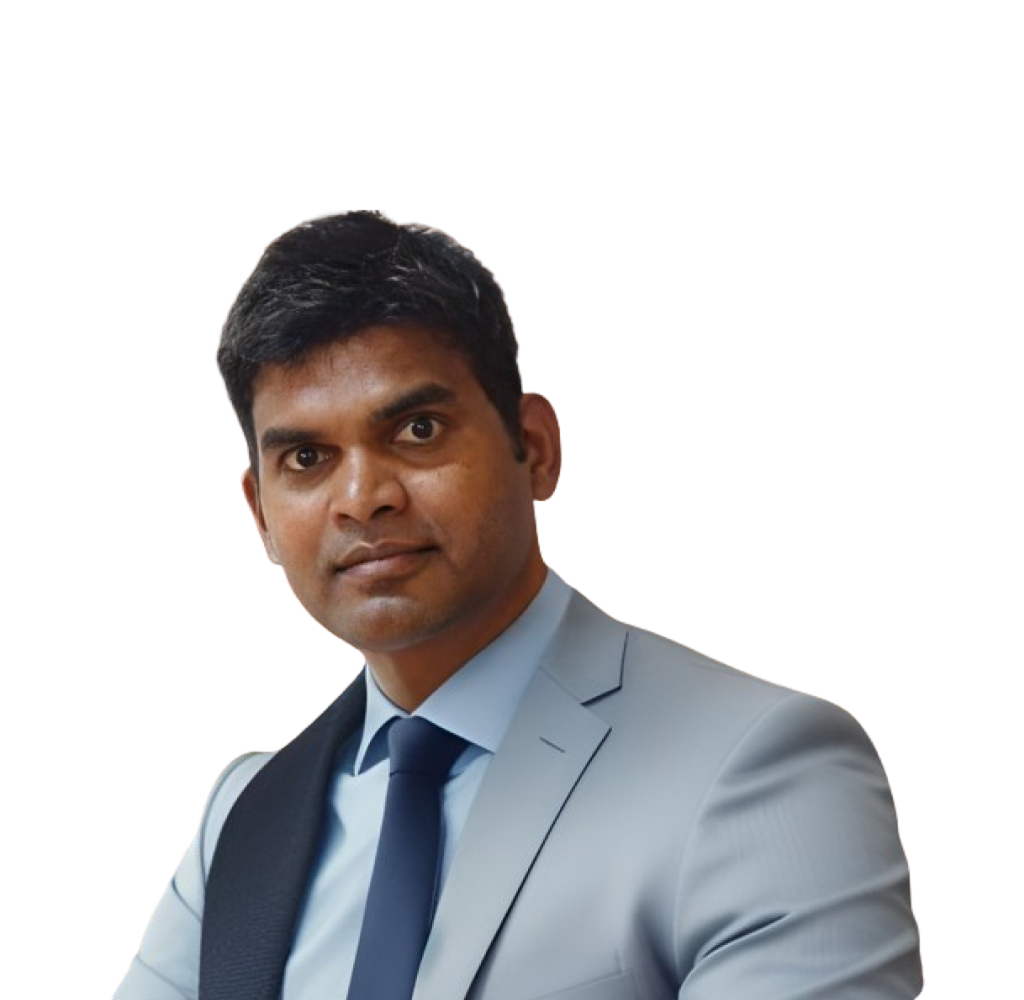
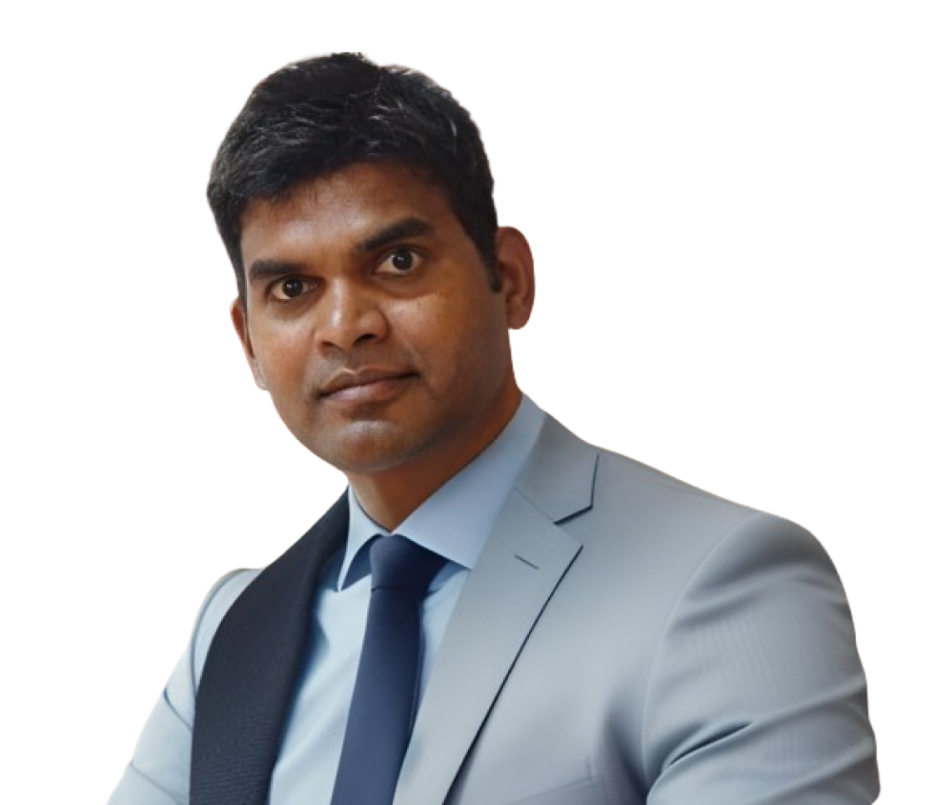
Updated the team page

diff --git a/src/app/(marketing)/company/team/OurTeamClient.tsx b/src/app/(marketing)/company/team/OurTeamClient.tsx
@@ -54,60 +54,35 @@ export function OurTeamClient() {
       <div className="relative z-10">
         {/* CEO Banner Section */}
         <section className="relative w-full pt-32 pb-20">
-          <div className="container mx-auto px-4 md:px-6 max-w-6xl">
-            <div className="grid grid-cols-1 lg:grid-cols-2 gap-12 items-center">
-              {/* Left Side - Small Title and CEO Message */}
+          <div className="container mx-auto px-4 md:px-6 max-w-7xl">
+            {/* Small Title */}
+            <motion.div
+              initial={{ opacity: 0, y: 20 }}
+              animate={{ opacity: 1, y: 0 }}
+              transition={{ duration: 0.8, delay: 0.2 }}
+              className="inline-flex items-center gap-2 px-3 py-1 rounded-full bg-white/[0.03] border border-white/[0.08] mb-8"
+            >
+              <Circle className="h-2 w-2 fill-rose-500/80" />
+              <span className="text-sm text-white/60 tracking-wide">
+                Our Team
+              </span>
+            </motion.div>
+
+            <h1 className="text-4xl sm:text-5xl md:text-6xl font-bold text-white mb-8 font-sans leading-tight">
+              <span className="bg-clip-text text-transparent bg-gradient-to-r from-white via-white/90 to-white/80">
+                Meet Our Team
+              </span>
+            </h1>
+
+            <div className="bg-white/5 backdrop-blur-sm border border-white/10 rounded-xl p-6 md:p-8 flex flex-col lg:flex-row gap-8 items-stretch">
+              {/* Left Side - CEO Photo (30%) */}
               <motion.div
                 initial={{ opacity: 0, x: -30 }}
                 animate={{ opacity: 1, x: 0 }}
                 transition={{ duration: 0.8 }}
+                className="relative w-full lg:w-[30%] flex-shrink-0 min-h-[200px] lg:min-h-[250px] flex items-center"
               >
-                {/* Small Title */}
-                <motion.div
-                  initial={{ opacity: 0, y: 20 }}
-                  animate={{ opacity: 1, y: 0 }}
-                  transition={{ duration: 0.8, delay: 0.2 }}
-                  className="inline-flex items-center gap-2 px-3 py-1 rounded-full bg-white/[0.03] border border-white/[0.08] mb-8"
-                >
-                  <Circle className="h-2 w-2 fill-rose-500/80" />
-                  <span className="text-sm text-white/60 tracking-wide">
-                    Our Team
-                  </span>
-                </motion.div>
-
-                <h1 className="text-4xl sm:text-5xl md:text-6xl font-bold text-white mb-6 font-sans leading-tight">
-                  <span className="bg-clip-text text-transparent bg-gradient-to-r from-white via-white/90 to-white/80">
-                    Meet Our Team
-                  </span>
-                </h1>
-
-                {/* CEO Message */}
-                <div className="space-y-6">
-                  <div className="bg-white/5 backdrop-blur-sm border border-white/10 rounded-xl p-6 md:p-8">
-                    <p className="text-white/80 text-lg leading-relaxed font-light italic mb-4">
-                      "At Foxtra, we believe that innovation happens when talented individuals come together with a shared vision. Our team is the heart of everything we do, and each member brings unique expertise, passion, and dedication to delivering exceptional AI solutions."
-                    </p>
-                    <div className="flex items-center gap-4 pt-4 border-t border-white/10">
-                      <div className="w-12 h-12 rounded-full bg-gradient-to-br from-yellow-400 to-yellow-600 flex items-center justify-center text-white font-bold text-lg">
-                        CEO
-                      </div>
-                      <div>
-                        <p className="text-white font-semibold">CEO & Founder</p>
-                        <p className="text-white/60 text-sm">Foxtra AI</p>
-                      </div>
-                    </div>
-                  </div>
-                </div>
-              </motion.div>
-
-              {/* Right Side - CEO Photo */}
-              <motion.div
-                initial={{ opacity: 0, x: 30 }}
-                animate={{ opacity: 1, x: 0 }}
-                transition={{ duration: 0.8, delay: 0.2 }}
-                className="relative"
-              >
-                <div className="relative aspect-square max-w-md mx-auto">
+                <div className="relative w-full h-full">
                   <div className="absolute inset-0 bg-gradient-to-br from-white/10 via-white/5 to-white/10 rounded-2xl backdrop-blur-xl border border-white/30 p-2 shadow-2xl">
                     <div className="relative w-full h-full rounded-xl overflow-hidden">
                       <Image
@@ -117,7 +92,7 @@ export function OurTeamClient() {
                         className="object-cover blur-[0.5px]"
                         quality={95}
                         priority
-                        sizes="(max-width: 768px) 100vw, (max-width: 1200px) 50vw, 33vw"
+                        sizes="(max-width: 768px) 100vw, (max-width: 1200px) 30vw, 30vw"
                       />
                       {/* Subtle glass overlay - no blur on image */}
                       <div className="absolute inset-0 bg-gradient-to-br from-white/5 via-transparent to-white/5 pointer-events-none" />
@@ -126,6 +101,30 @@ export function OurTeamClient() {
                   {/* Decorative elements */}
                   <div className="absolute -top-4 -right-4 w-24 h-24 bg-yellow-500/20 rounded-full blur-2xl" />
                   <div className="absolute -bottom-4 -left-4 w-32 h-32 bg-rose-500/20 rounded-full blur-2xl" />
+                </div>
+              </motion.div>
+
+              {/* Right Side - CEO Message (70%) */}
+              <motion.div
+                initial={{ opacity: 0, x: 30 }}
+                animate={{ opacity: 1, x: 0 }}
+                transition={{ duration: 0.8, delay: 0.2 }}
+                className="flex items-center justify-center h-full w-full lg:w-[70%] flex-shrink-0 min-h-[200px] lg:min-h-[250px]"
+              >
+                {/* CEO Message */}
+                <div className="flex flex-col justify-center w-full">
+                  <p className="text-white/80 text-lg leading-relaxed font-light italic mb-4">
+                    "At Foxtra, we believe that innovation happens when talented individuals come together with a shared vision. Our team is the heart of everything we do, and each member brings unique expertise, passion, and dedication to delivering exceptional AI solutions."
+                  </p>
+                  <div className="flex items-center gap-4 pt-4 border-t border-white/10">
+                    <div className="w-12 h-12 rounded-full bg-gradient-to-br from-yellow-400 to-yellow-600 flex items-center justify-center text-white font-bold text-lg">
+                      CEO
+                    </div>
+                    <div>
+                      <p className="text-white font-semibold">CEO & Founder</p>
+                      <p className="text-white/60 text-sm">Foxtra AI</p>
+                    </div>
+                  </div>
                 </div>
               </motion.div>
             </div>
